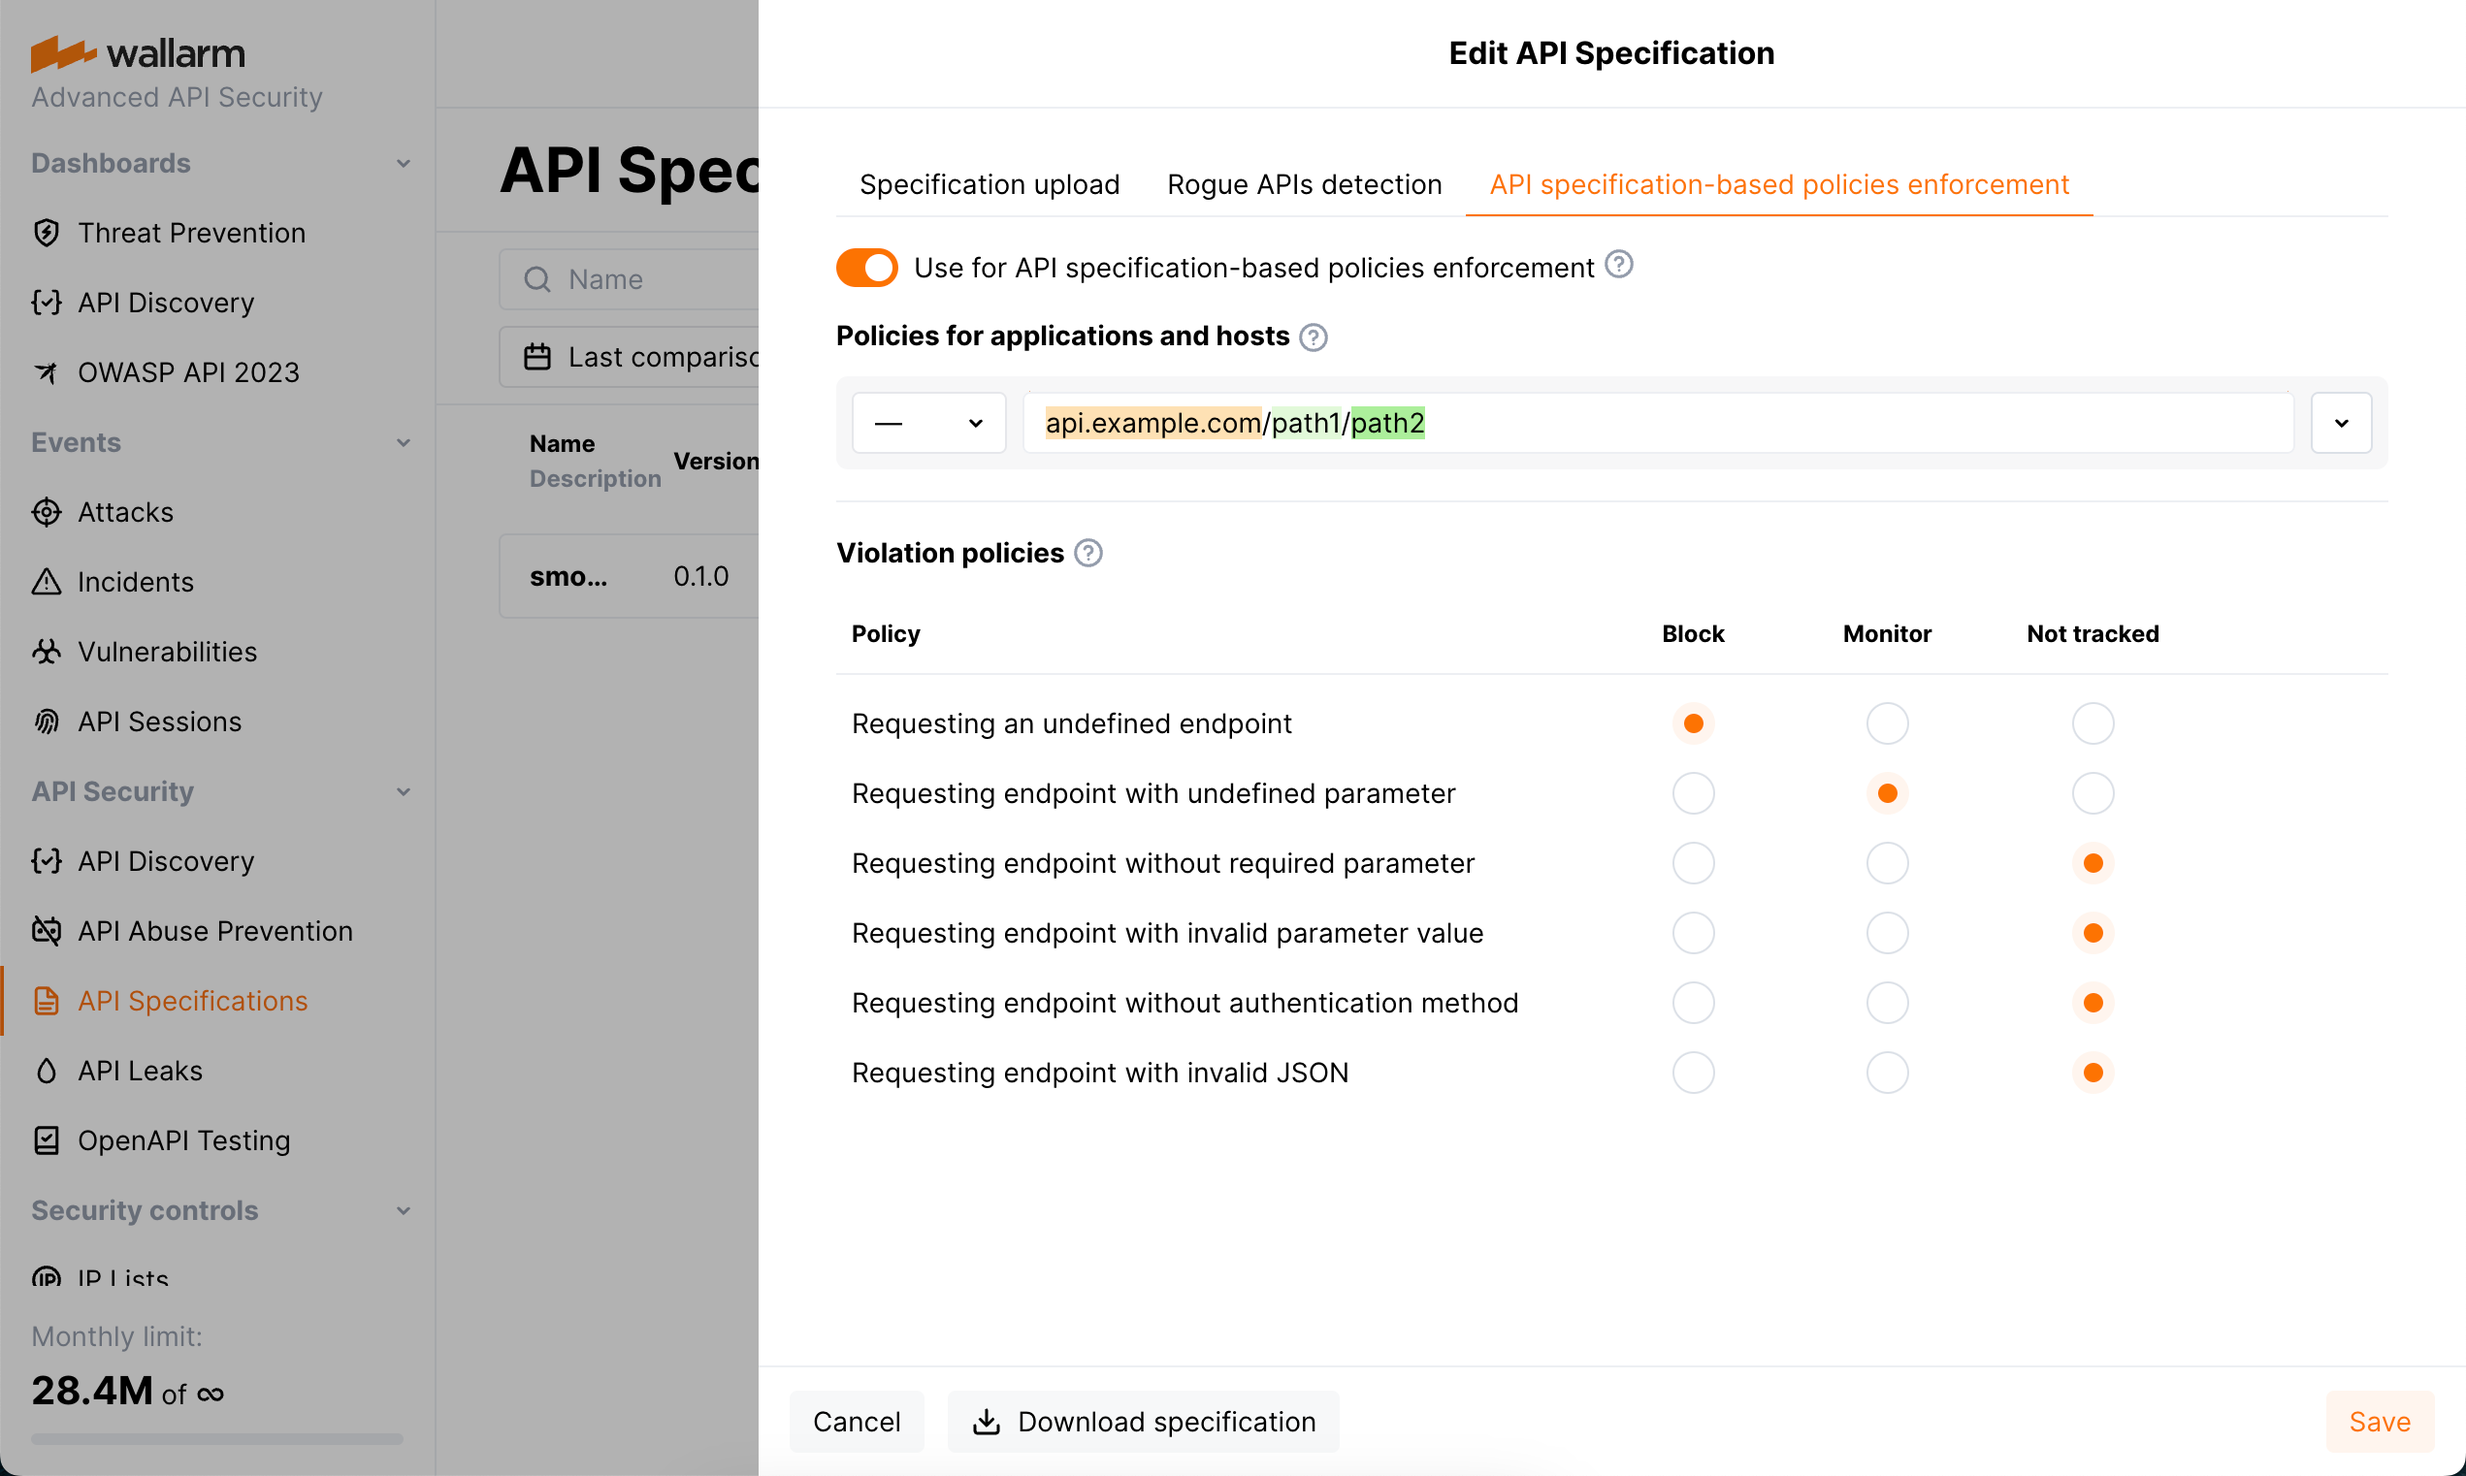
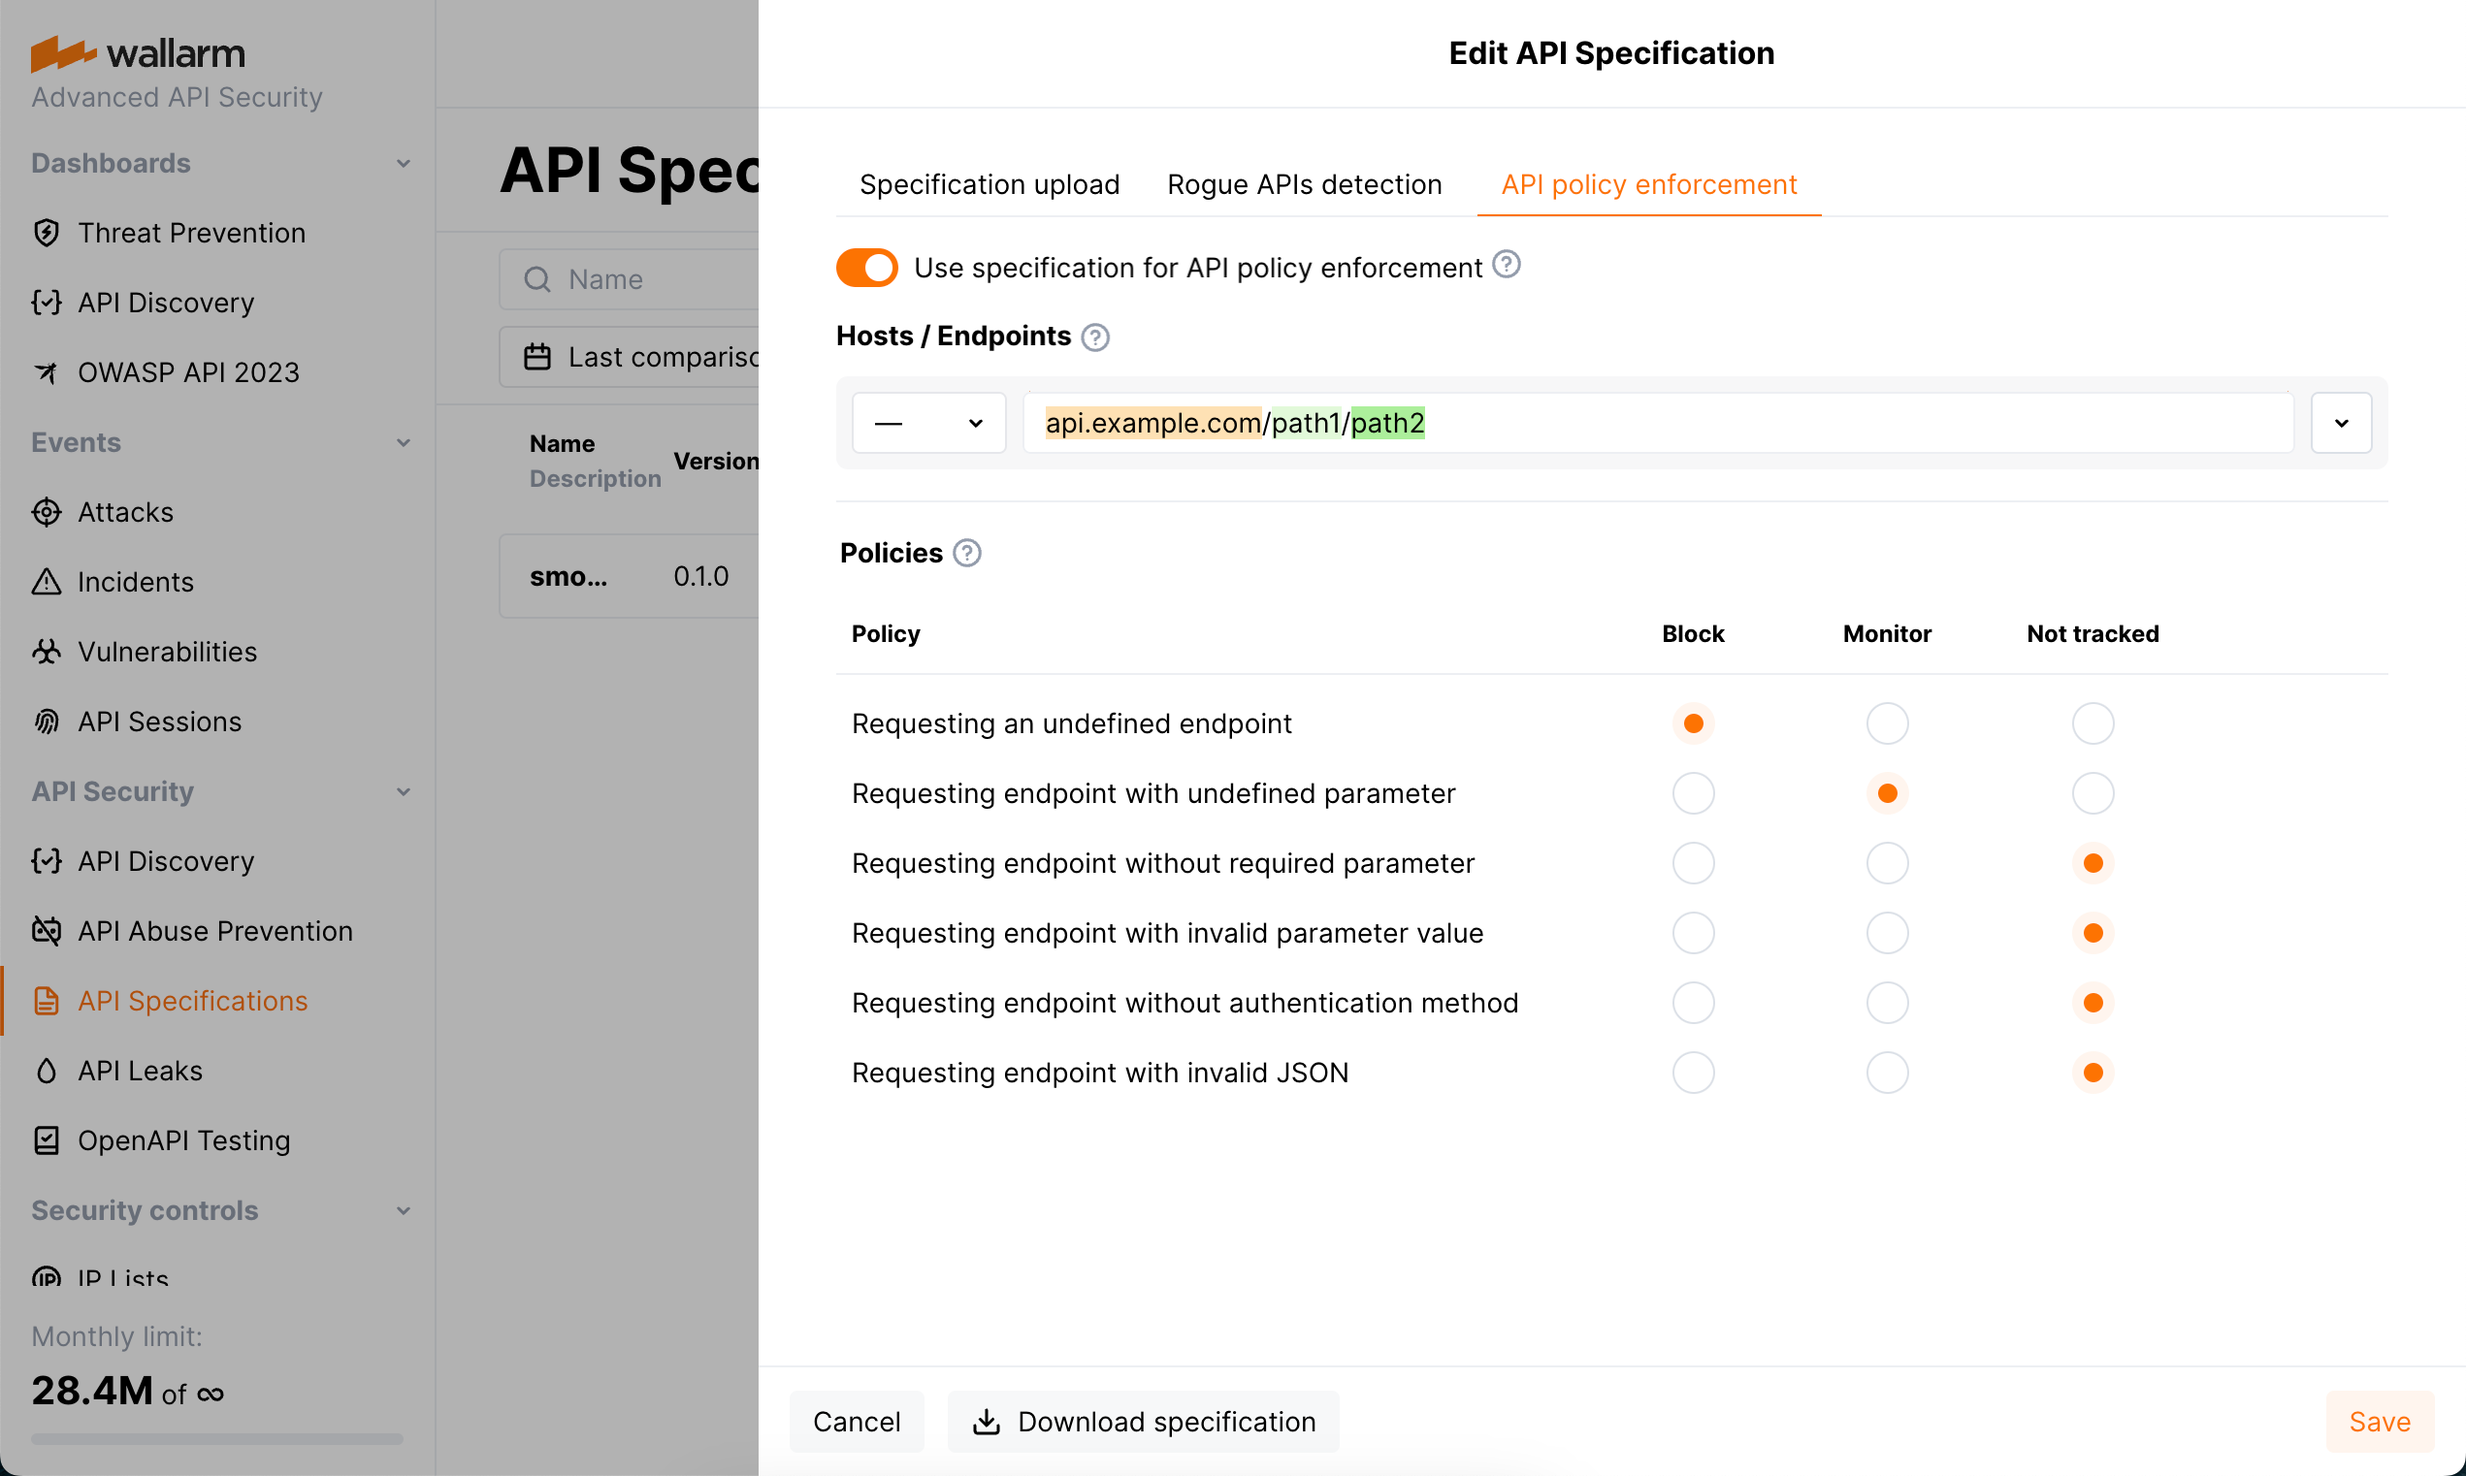
DOCS-2328 API policy enforcement UI changes

Changed region(s): [[0.404, 0.1235, 0.8391, 0.1853], [0.3419, 0.2162, 0.5283, 0.247], [0.3419, 0.3706, 0.4351, 0.4014]]

diff --git a/docs/latest/api-policy-enforcement/setup.md b/docs/latest/api-policy-enforcement/setup.md
@@ -13,13 +13,13 @@ Note that you will not be able to start configuring API policy enforcement based
 
 ## Step 2: Set actions for violations of policies
 
-1. Click the **API specification-based policy enforcement** tab.
+1. Click the **API policy enforcement** tab.
 
     !!! info "Rogue API detection"
         * Besides policy enforcement, specifications may be used by [API Discovery](../api-discovery/overview.md) module for the [rogue API detection](../api-discovery/rogue-api.md). The tab is displayed if API Discovery is enabled.
         * Before using the specification for policy enforcement, it is recommended to use it for searching the rogue (shadow, zombie and orphan) APIs using API Discovery. This way you will be able to understand how much your specification differs from the actual requests of your clients - these differences will most probably cause blocking related requests after policy enforcement.
 
-1. Select **Use for API specification-based policy enforcement**.
+1. Select **Use specification for API policy enforcement**.
 1. Specify host or endpoint for which you want to activate policy violation actions.
 
     * Note that if you incorrectly specify to which endpoints the uploaded specification should be applied, there will be many [false positive](../about-wallarm/protecting-against-attacks.md#false-positives) events.
